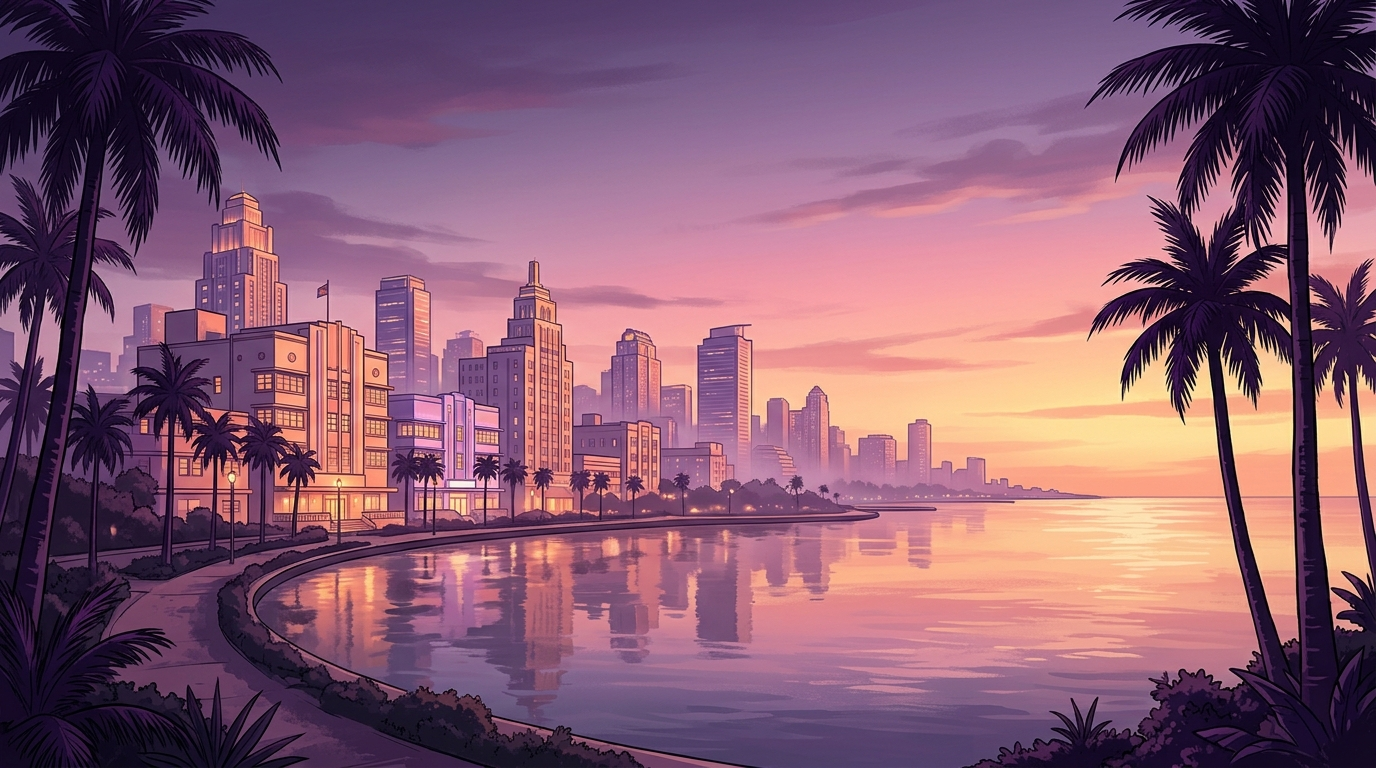
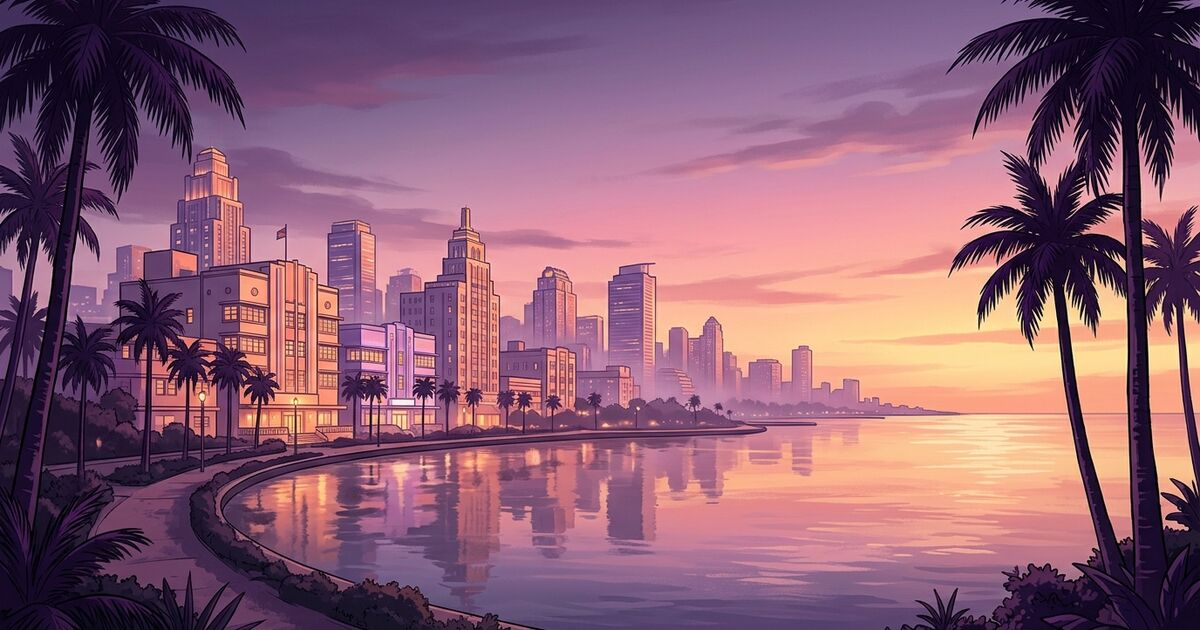
perf: optimize assets and implement code splitting
Migrated image assets to WebP for better compression, added lazy loading and performance attributes to images, and implemented dynamic imports for heavy components to improve load times. Updated domain configuration to gtavi.thekhubaib.me.

diff --git a/index.html b/index.html
@@ -30,13 +30,13 @@
     <link rel="icon" type="image/png" sizes="256x256" href="/favicon.png" />
     <link rel="shortcut icon" type="image/png" href="/favicon.png" />
     <link rel="apple-touch-icon" sizes="180x180" href="/apple-touch-icon.png" />
-    <link rel="canonical" href="https://sickday6.thekhubaib.me/" />
+    <link rel="canonical" href="https://gtavi.thekhubaib.me/" />
 
     <!-- OpenGraph / Facebook / WhatsApp / LinkedIn -->
     <meta property="og:type" content="website" />
     <meta property="og:site_name" content="Sick Day VI" />
     <meta property="og:locale" content="en_US" />
-    <meta property="og:url" content="https://sickday6.thekhubaib.me/" />
+    <meta property="og:url" content="https://gtavi.thekhubaib.me/" />
     <meta
       property="og:title"
       content="Sick Day VI: Hinglish Excuse Generator for Office &amp; GTA 6"
@@ -45,9 +45,9 @@
       property="og:description"
       content="Free Hinglish excuse generator for believable office leave excuses or GTA 6 launch day funny excuses on WhatsApp, Email, and Telegram with PNG cards."
     />
-    <meta property="og:image" content="/og-image.jpg" />
-    <meta property="og:image:width" content="1280" />
-    <meta property="og:image:height" content="720" />
+    <meta property="og:image" content="https://gtavi.thekhubaib.me/og-image.jpg" />
+    <meta property="og:image:width" content="1200" />
+    <meta property="og:image:height" content="630" />
     <meta
       property="og:image:alt"
       content="Sick Day VI Leonida Sunset coastal skyline artwork for Hinglish Excuse Generator"
@@ -63,7 +63,7 @@
       name="twitter:description"
       content="Free Hinglish excuse generator for believable office leave excuses or GTA 6 launch day funny excuses on WhatsApp, Email, and Telegram with PNG cards."
     />
-    <meta name="twitter:image" content="/og-image.jpg" />
+    <meta name="twitter:image" content="https://gtavi.thekhubaib.me/og-image.jpg" />
     <meta
       name="twitter:image:alt"
       content="Sick Day VI Leonida Sunset coastal skyline artwork"
@@ -78,13 +78,14 @@
             "@type": "WebApplication",
             "name": "Sick Day VI: Hinglish Excuse Generator for Office & GTA 6",
             "alternateName": ["Sick Day VI", "Chhutti 6", "Hinglish Excuse Generator", "GTA 6 Excuse Generator"],
+            "url": "https://gtavi.thekhubaib.me/",
             "applicationCategory": "EntertainmentApplication",
             "operatingSystem": "All",
             "inLanguage": ["en", "hi-Latn"],
             "isAccessibleForFree": true,
             "keywords": "Hinglish excuse generator, Office leave excuse, GTA 6 launch day funny excuse, WhatsApp leave excuse maker, office sick leave email generator",
             "description": "Free Hinglish excuse generator for believable office leave excuses or GTA 6 launch day funny excuses across WhatsApp, Email, and Telegram with downloadable Leonida Sunset PNG postcards.",
-            "image": "/og-image.jpg",
+            "image": "https://gtavi.thekhubaib.me/og-image.jpg",
             "featureList": [
               "Three tailored personas: Student, Corporate, and Job Holder",
               "Three messaging formats: WhatsApp, Email with subject line, and Telegram bold markdown",
@@ -147,9 +148,22 @@
     <link rel="preconnect" href="https://fonts.googleapis.com" />
     <link rel="preconnect" href="https://fonts.gstatic.com" crossorigin />
     <link
-      href="https://fonts.googleapis.com/css2?family=Outfit:wght@500;600;700;800&family=Plus+Jakarta+Sans:wght@400;500;600;700&display=swap"
-      rel="stylesheet"
+      rel="preload"
+      as="style"
+      href="https://fonts.googleapis.com/css2?family=Outfit:wght@600;700;800&family=Plus+Jakarta+Sans:wght@400;500;600;700&display=swap"
     />
+    <link
+      rel="stylesheet"
+      href="https://fonts.googleapis.com/css2?family=Outfit:wght@600;700;800&family=Plus+Jakarta+Sans:wght@400;500;600;700&display=swap"
+      media="print"
+      onload="this.media='all'"
+    />
+    <noscript>
+      <link
+        rel="stylesheet"
+        href="https://fonts.googleapis.com/css2?family=Outfit:wght@600;700;800&family=Plus+Jakarta+Sans:wght@400;500;600;700&display=swap"
+      />
+    </noscript>
   </head>
   <body class="bg-[#110E1A] text-[#F7F4FA] antialiased selection:bg-[#FFB0C4]/35 selection:text-[#FFFFFF]">
     <div id="root"></div>

diff --git a/src/App.tsx b/src/App.tsx
@@ -1,11 +1,9 @@
-import { useCallback, useEffect, useRef, useState } from 'react';
+import { lazy, Suspense, useCallback, useEffect, useRef, useState } from 'react';
 import { FaqSection } from './components/FaqSection';
 import { Footer } from './components/Footer';
 import { GeneratorStudio } from './components/GeneratorStudio';
 import { Navbar } from './components/Navbar';
-import { PrivacyPolicyPage } from './components/PrivacyPolicyPage';
 import { ScrollReveal } from './components/ScrollReveal';
-import { ShareModal } from './components/ShareModal';
 import { ViceHero } from './components/ViceHero';
 import { fetchExcuseOrFallback } from './services/excuseClient';
 import type {
@@ -19,10 +17,19 @@ import {
   rehydrateTemplateRecipient,
 } from './utils/excuseEngine';
 import { isPrivacyPolicyPath, syncDocumentHead } from './utils/seoMeta';
-import {
-  renderShareCardPng,
-  type RenderedShareCard,
-} from './utils/shareCardRenderer';
+import type { RenderedShareCard } from './utils/shareCardRenderer';
+
+const PrivacyPolicyPage = lazy(() =>
+  import('./components/PrivacyPolicyPage').then((mod) => ({
+    default: mod.PrivacyPolicyPage,
+  })),
+);
+
+const ShareModal = lazy(() =>
+  import('./components/ShareModal').then((mod) => ({
+    default: mod.ShareModal,
+  })),
+);
 
 export default function App() {
   const [pathname, setPathname] = useState<string>(() =>
@@ -201,6 +208,7 @@ export default function App() {
   const handleShare = useCallback(async () => {
     setIsExporting(true);
     try {
+      const { renderShareCardPng } = await import('./utils/shareCardRenderer');
       const rendered = await renderShareCardPng(excuse);
       setShareCard(rendered);
       setIsShareOpen(true);
@@ -224,7 +232,13 @@ export default function App() {
 
       <main>
         {isPrivacyPage ? (
-          <PrivacyPolicyPage onBackHome={navigateToHome} />
+          <Suspense
+            fallback={
+              <div className="mx-auto min-h-[70vh] w-full max-w-4xl px-4 pt-32 pb-16 sm:px-6" />
+            }
+          >
+            <PrivacyPolicyPage onBackHome={navigateToHome} />
+          </Suspense>
         ) : (
           <>
             <ViceHero
@@ -274,12 +288,16 @@ export default function App() {
         onGoHome={() => navigateToHome()}
       />
 
-      <ShareModal
-        isOpen={isShareOpen}
-        card={shareCard}
-        excuse={excuse}
-        onClose={() => setIsShareOpen(false)}
-      />
+      {isShareOpen && (
+        <Suspense fallback={null}>
+          <ShareModal
+            isOpen={isShareOpen}
+            card={shareCard}
+            excuse={excuse}
+            onClose={() => setIsShareOpen(false)}
+          />
+        </Suspense>
+      )}
     </div>
   );
 }

diff --git a/src/components/GeneratorStudio.tsx b/src/components/GeneratorStudio.tsx
@@ -7,10 +7,10 @@ import {
   RefreshCw,
   X,
 } from 'lucide-react';
-import panelControllerArt from '../assets/images/panel_controller_dusk_1795131903542.jpg';
-import panelOceanDriveArt from '../assets/images/panel_ocean_drive_1795131905536.jpg';
-import panelViceBayArt from '../assets/images/panel_vice_bay_1795131903720.jpg';
-import heroSunsetArt from '../assets/images/vice_sunset_hero_1795131903658.jpg';
+import panelControllerArt from '../assets/images/panel_controller_dusk_1795131903542.webp';
+import panelOceanDriveArt from '../assets/images/panel_ocean_drive_1795131905536.webp';
+import panelViceBayArt from '../assets/images/panel_vice_bay_1795131903720.webp';
+import heroSunsetArt from '../assets/images/vice_sunset_hero_1795131903658.webp';
 import {
   CHANNEL_OPTIONS,
   CONTEXT_STARTERS,
@@ -601,6 +601,10 @@ export function GeneratorStudio({
                     <img
                       src={art.src}
                       alt={art.alt}
+                      width={800}
+                      height={600}
+                      loading="lazy"
+                      decoding="async"
                       referrerPolicy="no-referrer"
                       className="absolute inset-0 h-full w-full object-cover object-center transition-transform duration-500 group-hover:scale-105"
                     />
@@ -651,6 +655,10 @@ export function GeneratorStudio({
             <img
               src={heroSunsetArt}
               alt=""
+              width={1440}
+              height={810}
+              loading="lazy"
+              decoding="async"
               aria-hidden="true"
               referrerPolicy="no-referrer"
               className="pointer-events-none absolute inset-0 -z-20 h-full w-full object-cover object-center opacity-55"

diff --git a/src/components/Navbar.tsx b/src/components/Navbar.tsx
@@ -39,11 +39,12 @@ export function Navbar({ onStartClick, onNavigateSection }: NavbarProps) {
         >
           <span className="inline-flex h-9 w-9 shrink-0 items-center justify-center overflow-hidden rounded-full bg-[#FAF7F4] ring-1 ring-[#FFB0C4]/60 shadow-[0_4px_14px_rgba(17,14,26,0.45)] transition-transform duration-200 group-hover:scale-105 sm:h-10 sm:w-10">
             <img
-              src="/assets/aistudio/gta-v1-logo_c43a42aa.png"
+              src="/logo-mascot.webp"
               alt="Sick Day VI mascot logo"
               width={40}
               height={40}
-              className="h-full w-full -scale-x-100 object-cover"
+              decoding="async"
+              className="h-full w-full object-cover"
             />
           </span>
           <span className="inline-flex items-center gap-1.5">

diff --git a/src/components/ViceHero.tsx b/src/components/ViceHero.tsx
@@ -1,6 +1,6 @@
 import { useEffect, useRef } from 'react';
 import { ChevronDown } from 'lucide-react';
-import heroSunsetArt from '../assets/images/vice_sunset_hero_1795131903658.jpg';
+import heroSunsetArt from '../assets/images/vice_sunset_hero_1795131903658.webp';
 import { HERO_MARQUEE_CONTEXTS } from '../types/excuse';
 import { ViceEmblem } from './ViceEmblem';
 
@@ -97,6 +97,10 @@ export function ViceHero({
         <img
           src={heroSunsetArt}
           alt=""
+          width={1440}
+          height={810}
+          fetchPriority="high"
+          decoding="async"
           referrerPolicy="no-referrer"
           className="leonida-hero-drift h-full w-full object-cover object-center"
         />

diff --git a/src/components/PrivacyPolicyPage.tsx b/src/components/PrivacyPolicyPage.tsx
@@ -35,7 +35,7 @@ export function PrivacyPolicyPage({ onBackHome }: PrivacyPolicyPageProps) {
   const origin =
     typeof window !== 'undefined'
       ? window.location.origin
-      : 'https://sickday6.thekhubaib.me';
+      : 'https://gtavi.thekhubaib.me';
 
   const structuredData = {
     '@context': 'https://schema.org',

diff --git a/src/utils/shareCardRenderer.ts b/src/utils/shareCardRenderer.ts
@@ -1,4 +1,4 @@
-import heroSunsetArtUrl from '../assets/images/vice_sunset_hero_1795131903658.jpg';
+import heroSunsetArtUrl from '../assets/images/vice_sunset_hero_1795131903658.webp';
 import type { ExcuseResult } from '../types/excuse';
 import {
   CHANNEL_OPTIONS,
